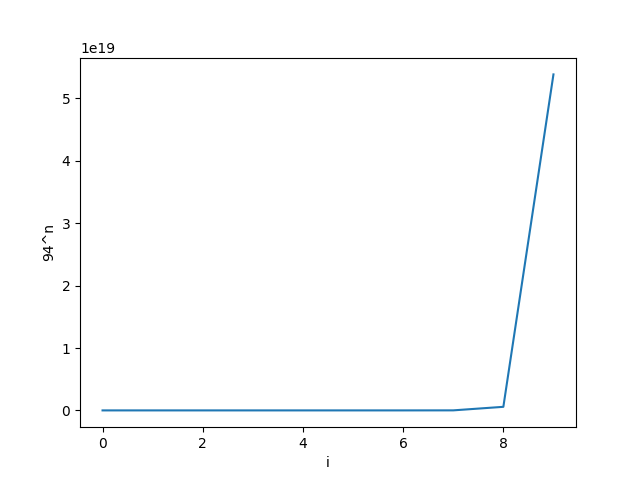
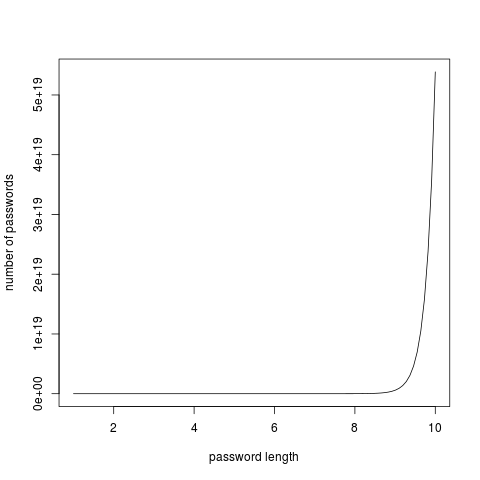
more exp growth with populations

diff --git a/python-scipy/exponential_growth.py b/python-scipy/exponential_growth.py
@@ -1,8 +1,10 @@
 import matplotlib.pyplot as plt, numpy
 
 points = []
-for i in range(1,11):
+i = 1
+while i <= 10:
     points.append(94**i)
+    i = i + .01
 
 plt.figure(1)
 plt.plot(points)
